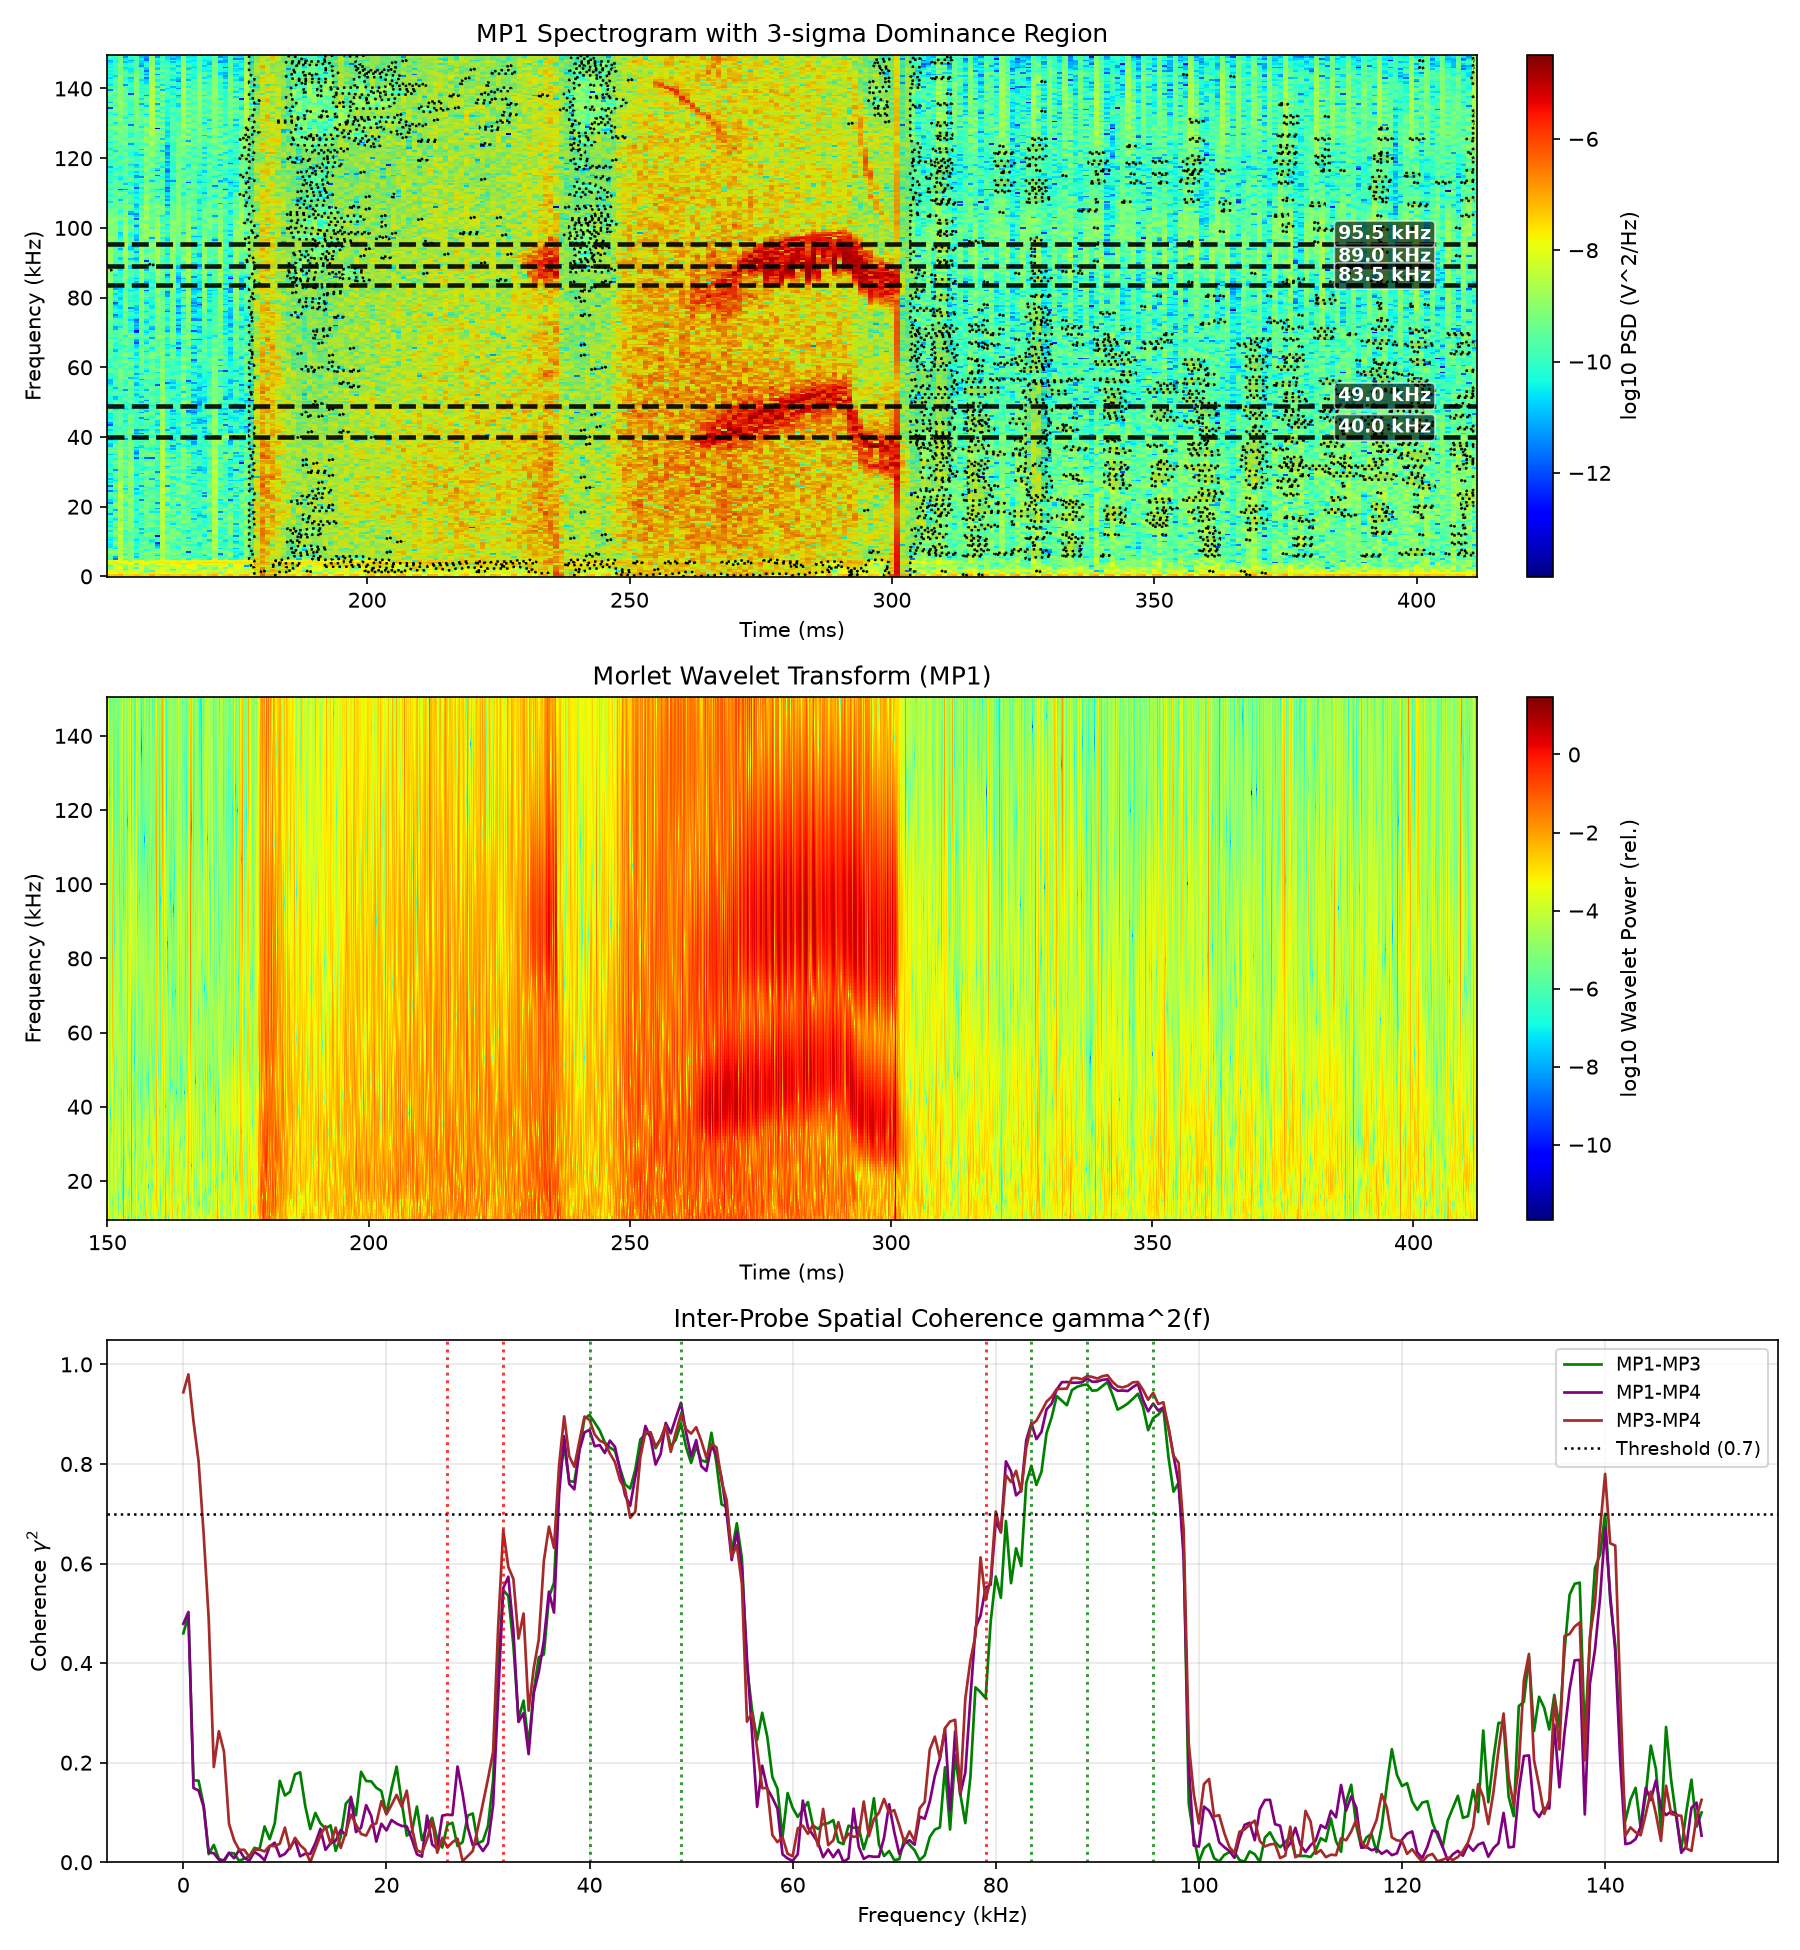
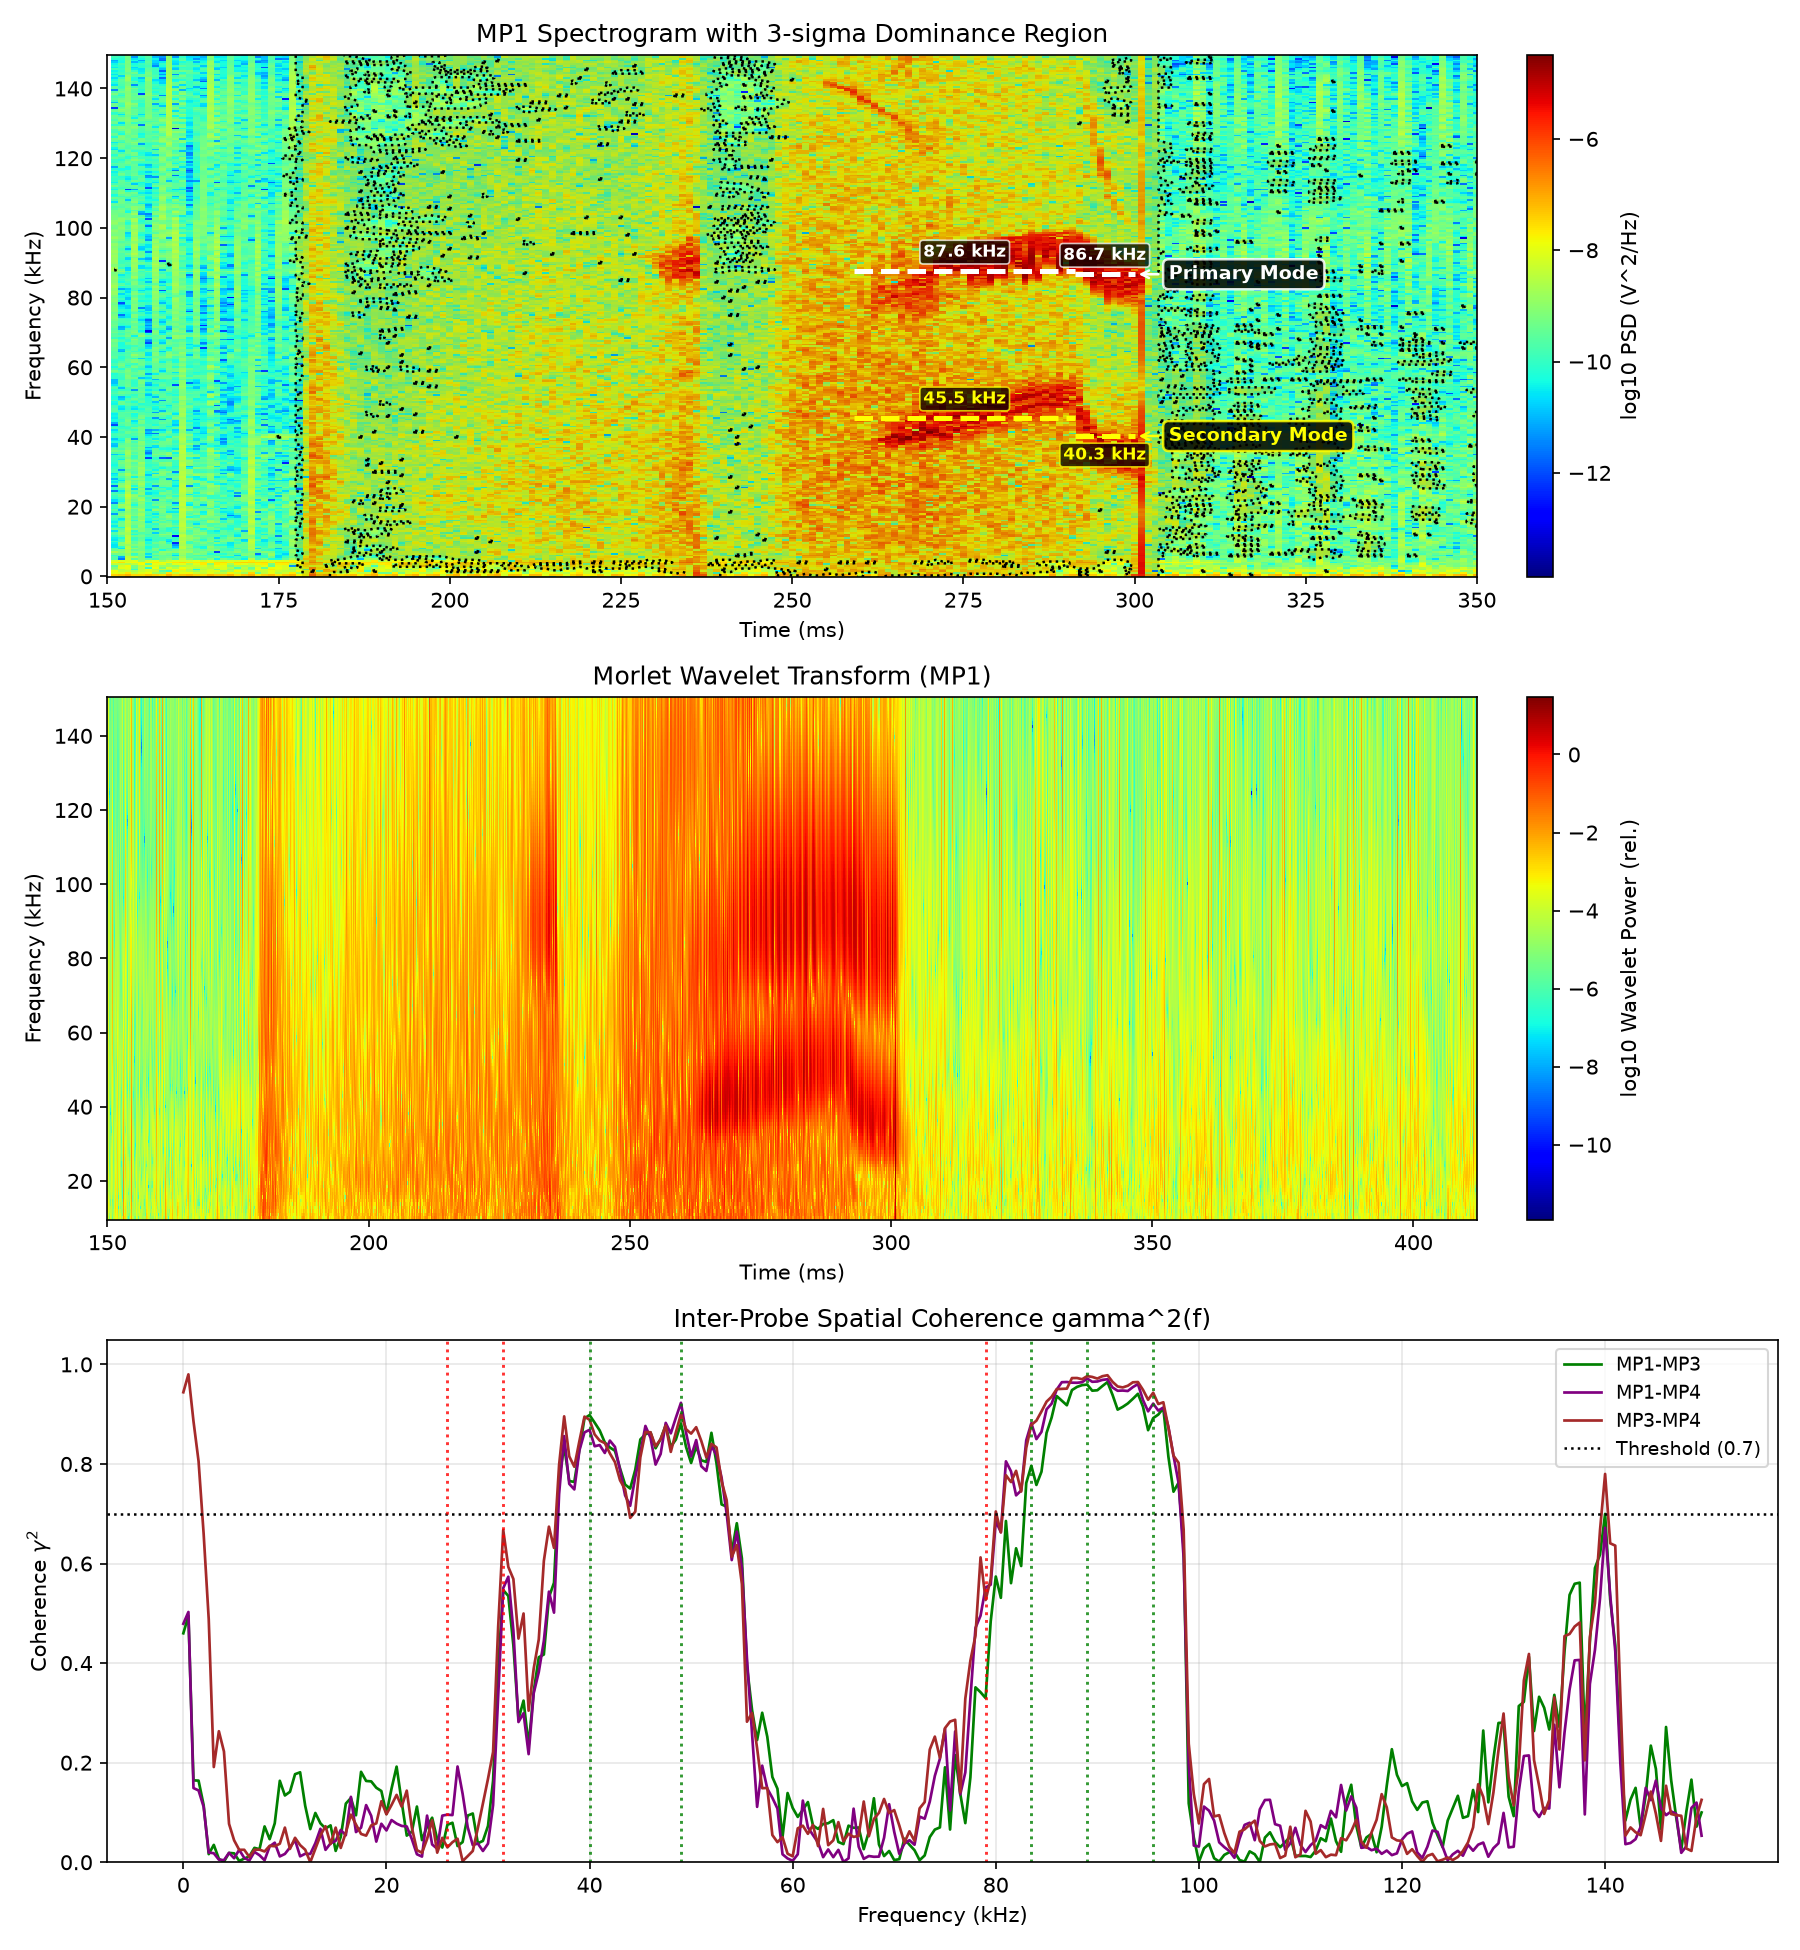
WIP: obj1 spectrogram mode markers (pre-review)

Changed region(s): [[0.0622, 0.0308, 0.84, 0.3077]]

diff --git a/analysis/obj1_mode_identification/mhd_analysis_obj1.py b/analysis/obj1_mode_identification/mhd_analysis_obj1.py
@@ -20,13 +20,21 @@ for p in [current] + list(current.parents):
 if root_dir is None:
     root_dir = Path("c:/TFG")
 
-for p_add in [root_dir / "jpack", root_dir / "analysis", root_dir / "analysis" / "common"]:
+for p_add in [root_dir / "jpack", root_dir / "analysis", root_dir / "analysis" / "common", root_dir / "analysis" / "heating_phase_comparison"]:
     if str(p_add) not in sys.path:
         sys.path.append(str(p_add))
 
+import hashlib
+import io
+import matplotlib.transforms as transforms
 import turnelib as TE
 import libana_signal as LAS
 from mhd_common import morlet_cwt
+from comparison_common import (
+    T_NOISE_START, T_NOISE_END,
+    T_W1_START, T_W1_END,
+    T_W2_START, T_W2_END,
+)
 
 import logging
 
@@ -101,12 +109,62 @@ def safe_savefig(fig, out_path, dpi=150):
             pass
 
 
+def compute_phase_mode_frequencies(ys_mp1, fs, time_s):
+    """
+    Computes per-phase ridge frequencies for Primary and Secondary modes
+    using the exact tracking logic from analysis/heating_phase_comparison/mhd_compare_spectrograms.py
+    """
+    nperseg = 1024
+    noverlap = 960  # fine temporal resolution: step = 64 us
+    f_stft, t_s, Zxx = dsp.stft(ys_mp1, fs=fs, nperseg=nperseg, noverlap=noverlap, window='hann')
+    t_stft_ms = float(time_s[0]) * 1000.0 + t_s * 1000.0
+    psd = np.abs(Zxx) ** 2
+    f_khz = f_stft / 1000.0
+
+    mask_noise = (t_stft_ms >= T_NOISE_START) & (t_stft_ms <= T_NOISE_END)
+    mean_noise = np.mean(psd[:, mask_noise], axis=1)
+    std_noise = np.std(psd[:, mask_noise], axis=1)
+    thresh_3sigma = mean_noise + 3.0 * std_noise
+
+    windows = [
+        ("ECH + NBI Phase", T_W1_START, T_W1_END),
+        ("NBI-only Phase", T_W2_START, T_W2_END)
+    ]
+
+    m_pri = (f_khz >= 70.0) & (f_khz <= 110.0)
+    m_sec = (f_khz >= 30.0) & (f_khz <= 65.0)
+
+    tracked = {}
+    for phase_name, tw_start, tw_end in windows:
+        mask_win = (t_stft_ms >= tw_start) & (t_stft_ms <= tw_end)
+        psd_sub = psd[:, mask_win]
+
+        f_pri_track = []
+        f_sec_track = []
+        for col in psd_sub.T:
+            idx_p = np.argmax(col[m_pri])
+            f_pri_track.append(f_khz[m_pri][idx_p])
+
+            idx_s = np.argmax(col[m_sec])
+            f_sec_track.append(f_khz[m_sec][idx_s])
+
+        tracked[phase_name] = {
+            "tw_start": tw_start,
+            "tw_end": tw_end,
+            "f_pri_mean": float(np.mean(f_pri_track)),
+            "f_sec_mean": float(np.mean(f_sec_track)),
+        }
+    return tracked
+
+
 def parse_args():
     p = argparse.ArgumentParser(description="MHD Analysis - Objective 1 (Mode Identification)")
     p.add_argument("-s", "--shots", type=int, nargs="+", default=SHOTS_DEFAULT,
                    help=f"List of shot numbers to analyze (default: {SHOTS_DEFAULT})")
     p.add_argument("-d", "--data-dir-pattern", type=str, default="data/hj{shot}",
                    help="Data directory pattern (default: data/hj{shot})")
+    p.add_argument("-o", "--out-dir", type=str, default=str(root_dir / "Images" / "obj1_mode_identification"),
+                   help="Output directory for generated figures")
     p.add_argument("--fres", type=float, default=500.0,
                    help="FFT frequency resolution in Hz (default: 500.0)")
     p.add_argument("--wav-nfreqs", type=int, default=150,
@@ -327,18 +385,67 @@ def process_shot(shot, args):
         axs[0].contour(tt[mask_fplot, :], ff[mask_fplot, :], dmap_plot,
                         levels=[0.5], colors='black', linewidths=1.2, linestyles=':')
 
-        t_max_ms = tave[-1] * 1000.0
-        for m in discrete_modes:
-            if not m["dual_criterion_pass"]:
-                continue
-            f_khz = m["frequency_hz"] / 1000.0
-            axs[0].axhline(y=f_khz, color='black', linestyle='--', alpha=0.9, linewidth=2.2)
-            axs[0].text(
-                t_max_ms * 0.98, f_khz, f"{f_khz:.1f} kHz",
-                color='white', fontsize=9, fontweight='bold',
-                va='bottom', ha='right',
-                bbox=dict(boxstyle='round,pad=0.2', facecolor='black', alpha=0.6, edgecolor='white', lw=0.8)
-            )
+        # Time window matching heating_vs_mirnov.py
+        axs[0].set_xlim(150.0, 350.0)
+
+        # Primary and secondary mode segmented markers
+        phase_tracking = compute_phase_mode_frequencies(signals["MP1"], fs, time_sec)
+        w1_data = phase_tracking["ECH + NBI Phase"]
+        w2_data = phase_tracking["NBI-only Phase"]
+
+        f_pri_w1, f_sec_w1 = w1_data["f_pri_mean"], w1_data["f_sec_mean"]
+        f_pri_w2, f_sec_w2 = w2_data["f_pri_mean"], w2_data["f_sec_mean"]
+
+        log_print(f"Segmented mode ridge tracking for Shot {shot}:")
+        log_print(f"  Primary Mode Segment 1 (ECH+NBI):  [{w1_data['tw_start']:.1f}, {w1_data['tw_end']:.1f}] ms -> {f_pri_w1:.2f} kHz")
+        log_print(f"  Primary Mode Segment 2 (NBI-only): [{w2_data['tw_start']:.1f}, {w2_data['tw_end']:.1f}] ms -> {f_pri_w2:.2f} kHz")
+        log_print(f"  Secondary Mode Segment 1 (ECH+NBI):  [{w1_data['tw_start']:.1f}, {w1_data['tw_end']:.1f}] ms -> {f_sec_w1:.2f} kHz")
+        log_print(f"  Secondary Mode Segment 2 (NBI-only): [{w2_data['tw_start']:.1f}, {w2_data['tw_end']:.1f}] ms -> {f_sec_w2:.2f} kHz")
+
+        # Sanity check against reference values
+        ref_pri_w1, ref_sec_w1 = 87.60, 45.47
+        ref_pri_w2, ref_sec_w2 = 86.69, 40.26
+        if abs(f_pri_w1 - ref_pri_w1) > 4.0 or abs(f_sec_w1 - ref_sec_w1) > 4.0 or \
+           abs(f_pri_w2 - ref_pri_w2) > 4.0 or abs(f_sec_w2 - ref_sec_w2) > 4.0:
+            raise ValueError("Computed ridge tracking values disagree with reference values by more than 4 kHz! Aborting.")
+
+        # Primary mode segments (white dashed)
+        axs[0].plot([w1_data["tw_start"], w1_data["tw_end"]], [f_pri_w1, f_pri_w1],
+                    color='white', linestyle='--', linewidth=2.4, zorder=5)
+        axs[0].plot([w2_data["tw_start"], w2_data["tw_end"]], [f_pri_w2, f_pri_w2],
+                    color='white', linestyle='--', linewidth=2.4, zorder=5)
+
+        # Secondary mode segments (yellow dashed)
+        axs[0].plot([w1_data["tw_start"], w1_data["tw_end"]], [f_sec_w1, f_sec_w1],
+                    color='yellow', linestyle='--', linewidth=2.4, zorder=5)
+        axs[0].plot([w2_data["tw_start"], w2_data["tw_end"]], [f_sec_w2, f_sec_w2],
+                    color='yellow', linestyle='--', linewidth=2.4, zorder=5)
+
+        # Small frequency badges
+        bbox_f_pri = dict(boxstyle='round,pad=0.2', facecolor='black', alpha=0.75, edgecolor='white', lw=0.8)
+        bbox_f_sec = dict(boxstyle='round,pad=0.2', facecolor='black', alpha=0.75, edgecolor='yellow', lw=0.8)
+
+        axs[0].text((w1_data["tw_start"] + w1_data["tw_end"]) / 2.0, f_pri_w1 + 3.0, f"{f_pri_w1:.1f} kHz",
+                    color='white', fontsize=8.0, fontweight='bold', ha='center', va='bottom', bbox=bbox_f_pri)
+        axs[0].text((w2_data["tw_start"] + w2_data["tw_end"]) / 2.0, f_pri_w2 + 3.0, f"{f_pri_w2:.1f} kHz",
+                    color='white', fontsize=8.0, fontweight='bold', ha='center', va='bottom', bbox=bbox_f_pri)
+
+        axs[0].text((w1_data["tw_start"] + w1_data["tw_end"]) / 2.0, f_sec_w1 + 3.0, f"{f_sec_w1:.1f} kHz",
+                    color='yellow', fontsize=8.0, fontweight='bold', ha='center', va='bottom', bbox=bbox_f_sec)
+        axs[0].text((w2_data["tw_start"] + w2_data["tw_end"]) / 2.0, f_sec_w2 - 3.0, f"{f_sec_w2:.1f} kHz",
+                    color='yellow', fontsize=8.0, fontweight='bold', ha='center', va='top', bbox=bbox_f_sec)
+
+        # Mode labels near right end of mode's line (styled like mhd_plot_modulator_dual_mode.py)
+        bbox_lbl_pri = dict(boxstyle='round,pad=0.3', facecolor='black', alpha=0.85, edgecolor='white', lw=1.2)
+        bbox_lbl_sec = dict(boxstyle='round,pad=0.3', facecolor='black', alpha=0.85, edgecolor='yellow', lw=1.2)
+
+        axs[0].annotate('Primary Mode', xy=(w2_data["tw_end"], f_pri_w2), xytext=(305.0, f_pri_w2),
+                        ha='left', va='center', fontsize=9.0, fontweight='bold', color='white',
+                        bbox=bbox_lbl_pri, arrowprops=dict(arrowstyle='->', color='white', lw=1.2))
+
+        axs[0].annotate('Secondary Mode', xy=(w2_data["tw_end"], f_sec_w2), xytext=(305.0, f_sec_w2),
+                        ha='left', va='center', fontsize=9.0, fontweight='bold', color='yellow',
+                        bbox=bbox_lbl_sec, arrowprops=dict(arrowstyle='->', color='yellow', lw=1.2))
 
         axs[0].set_title("MP1 Spectrogram with 3-sigma Dominance Region")
         axs[0].set_xlabel("Time (ms)")
@@ -372,10 +479,49 @@ def process_shot(shot, args):
         axs[2].legend(loc='upper right', fontsize=9)
 
         plt.tight_layout()
-        output_png = f"mhd_analysis_objective1_{shot}.png"
+        out_dir = Path(getattr(args, "out_dir", root_dir / "Images" / "obj1_mode_identification"))
+        out_dir.mkdir(parents=True, exist_ok=True)
+        output_png = out_dir / f"mhd_analysis_objective1_{shot}.png"
         safe_savefig(fig, output_png, dpi=150)
-        plt.close(fig)
         print(f"Objective 1 overview saved to '{output_png}'.")
+
+        # Re-extract panel 1 and check panels 2 and 3
+        panels_dir = out_dir / "panels"
+        panels_dir.mkdir(parents=True, exist_ok=True)
+        fig.canvas.draw()
+        renderer = fig.canvas.get_renderer()
+        primary_axes = [ax for ax in fig.get_axes() if not (hasattr(ax, '_colorbar_info') or getattr(ax, '_colorbar', False))]
+
+        pad = 0.08
+        # Panel 1
+        ax1 = primary_axes[0]
+        bb1 = ax1.get_tightbbox(renderer)
+        if bb1 is None: bb1 = ax1.get_window_extent(renderer)
+        bb1_in = bb1.transformed(fig.dpi_scale_trans.inverted())
+        bb1_padded = transforms.Bbox.from_extents(bb1_in.x0 - pad, bb1_in.y0 - pad, bb1_in.x1 + pad, bb1_in.y1 + pad)
+        p1_path = panels_dir / f"mhd_analysis_objective1_{shot}_panel1_mp1_spectrogram_with_3_sigma_dominance_r.png"
+        fig.savefig(str(p1_path), dpi=150, bbox_inches=bb1_padded, facecolor=fig.get_facecolor(), edgecolor='none', pad_inches=0)
+        print(f"Panel 1 extracted and saved to '{p1_path}'.")
+
+        # Compare panels 2 and 3 hashes
+        p2_path = panels_dir / f"mhd_analysis_objective1_{shot}_panel2_morlet_wavelet_transform_mp1.png"
+        p3_path = panels_dir / f"mhd_analysis_objective1_{shot}_panel3_inter_probe_spatial_coherence_gamma2f.png"
+        for i, (ax, p_path) in enumerate([(primary_axes[1], p2_path), (primary_axes[2], p3_path)], 2):
+            if p_path.exists():
+                orig_hash = hashlib.sha256(p_path.read_bytes()).hexdigest()
+                bb = ax.get_tightbbox(renderer)
+                if bb is None: bb = ax.get_window_extent(renderer)
+                bbi = bb.transformed(fig.dpi_scale_trans.inverted())
+                bbp = transforms.Bbox.from_extents(bbi.x0 - pad, bbi.y0 - pad, bbi.x1 + pad, bbi.y1 + pad)
+                buf = io.BytesIO()
+                fig.savefig(buf, format='png', dpi=150, bbox_inches=bbp, facecolor=fig.get_facecolor(), edgecolor='none', pad_inches=0)
+                new_hash = hashlib.sha256(buf.getvalue()).hexdigest()
+                match = (orig_hash == new_hash)
+                print(f"Panel {i} SHA-256 match: {match} (orig: {orig_hash}, new: {new_hash})")
+                if not match:
+                    print(f"WARNING: Panel {i} hash differs! Leaving existing file untouched.")
+
+        plt.close(fig)
 
     except Exception as e:
         print(f"Error processing shot {shot}: {e}")
